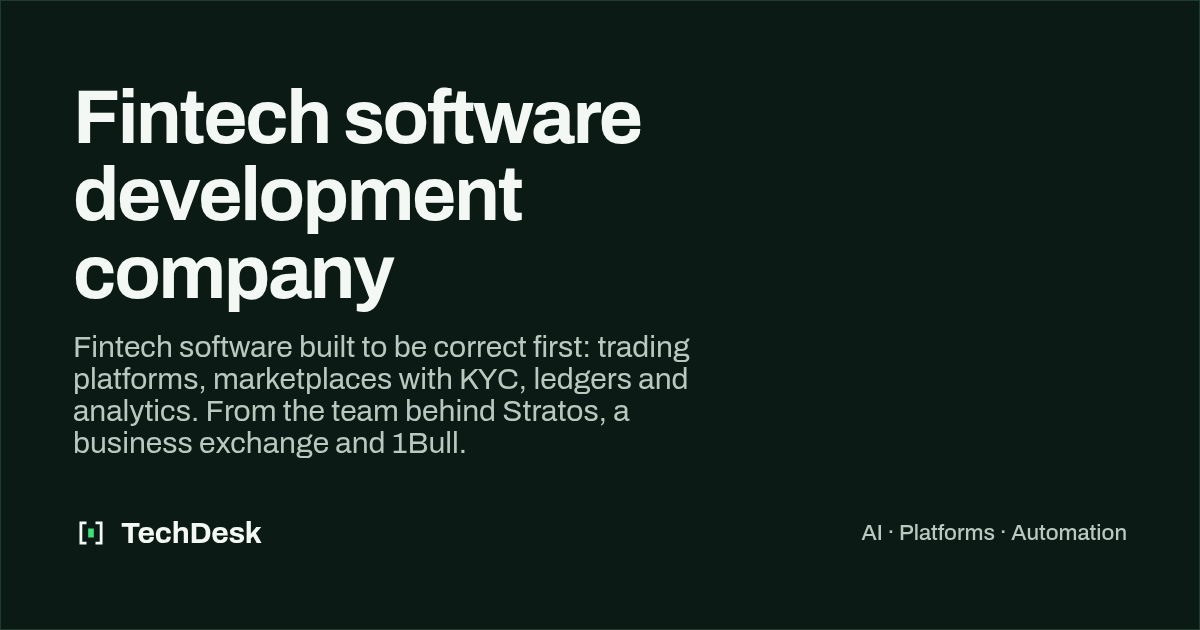
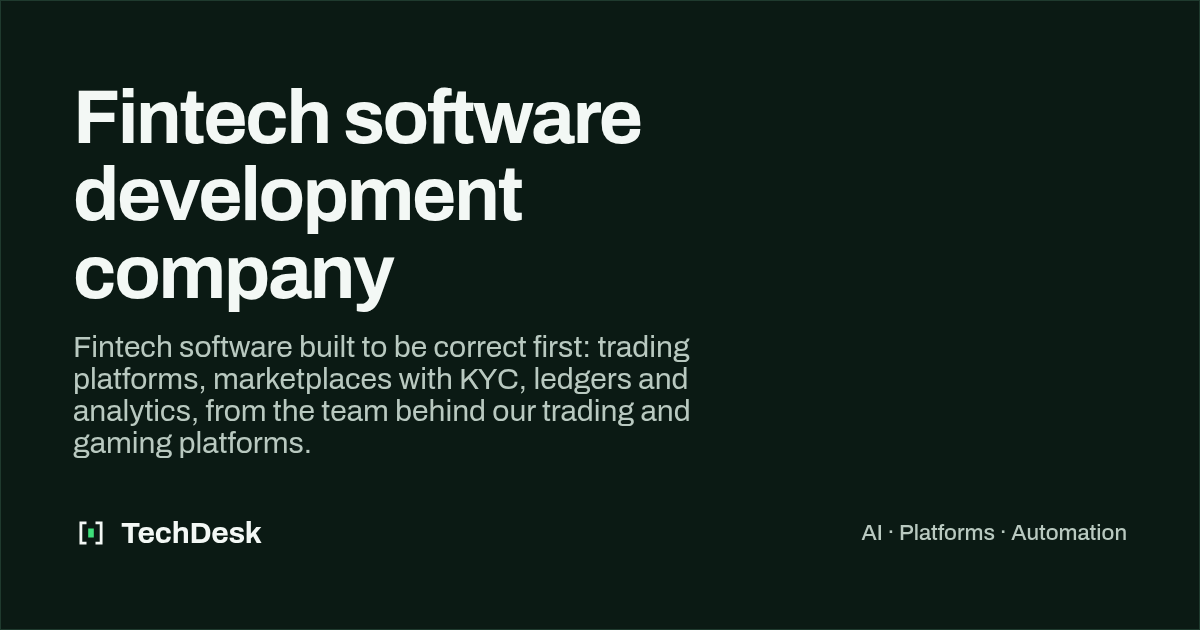
content: remove all client/project brand names and links
Stratos, 1Bull, BidMaster and Digital Ascent are now named by what they are
(Algo Trading Platform, Gaming Platform, E-bidding Automation Extension, Agency Website);
slugs, OG images, copy, tests and chat knowledge updated; no external project links remain.

Claude-Session: https://claude.ai/code/session_019mJ5fpaFVujuJBDkUZyHRG

Changed region(s): [[0.0617, 0.6333, 0.5858, 0.7238]]

diff --git a/src/data/solutions.ts b/src/data/solutions.ts
@@ -61,7 +61,7 @@ export const solutions: Solution[] = [
       {
         title: "Agents that stay up",
         detail:
-          "Our AI layers run a provider chain with timeouts and fallbacks, the same pattern we built for the Stratos trading platform, so one model outage does not take your support line down.",
+          "Our AI layers run a provider chain with timeouts and fallbacks, the same pattern we built for our algo trading platform, so one model outage does not take your support line down.",
       },
       {
         title: "Grounded answers only",
@@ -74,7 +74,7 @@ export const solutions: Solution[] = [
           "A focused WhatsApp agent starts at an indicative ₹75k in India or $2k worldwide. See the estimate tool for your case.",
       },
     ],
-    proof: ["stratos"],
+    proof: ["algo-trading-platform"],
     services: ["ai-automation"],
     estimateType: "ai",
     guide: "ai-agent-development-cost",
@@ -103,11 +103,11 @@ export const solutions: Solution[] = [
     ],
     title: "Algo trading software and platform development",
     description:
-      "Custom algo trading platforms: strategy builders, backtesting, paper trading, broker APIs and AI research. From the team that built the Stratos platform.",
+      "Custom algo trading platforms: strategy builders, backtesting, paper trading, broker APIs and AI research, from a team that runs a live one.",
     h1: "Algo trading software development, from strategy builder to live execution",
     intro: [
       "Trading software has to be right every time: a duplicate order or a missed stop-loss costs real money. We build algorithmic trading platforms and bots with the safety rails designed in from the start.",
-      "We engineered Stratos, a live platform where traders build strategies without code, backtest them, paper trade by default and go live through their own broker. We bring that experience to your platform.",
+      "We engineered a live algo trading platform where traders build strategies without code, backtest them, paper trade by default and go live through their own broker. We bring that experience to your platform.",
     ],
     build: [
       "No-code strategy builders with indicators, opening range and risk settings",
@@ -136,7 +136,7 @@ export const solutions: Solution[] = [
       {
         title: "We have shipped one",
         detail:
-          "Stratos runs strategies for Indian derivatives through Angel One and crypto through Delta Exchange, with AI research on a 5-minute cycle.",
+          "Our algo trading platform runs strategies for Indian derivatives through Angel One and crypto through Delta Exchange, with AI research on a 5-minute cycle.",
       },
       {
         title: "Correctness before features",
@@ -148,7 +148,7 @@ export const solutions: Solution[] = [
           "Paper-first defaults, recorded live consent, audit logs and encrypted broker tokens are part of the design, not an afterthought.",
       },
     ],
-    proof: ["stratos", "financial-analytics"],
+    proof: ["algo-trading-platform", "financial-analytics"],
     services: ["software-engineering", "ai-automation"],
     estimateType: "web-app",
     faq: [
@@ -238,7 +238,7 @@ export const solutions: Solution[] = [
     h1: "Chrome extension development that removes repetitive work from your team's day",
     intro: [
       "Many business processes still live inside a website you do not control: a supplier portal, a government system, a CRM. A browser extension can automate the repetitive parts right where your team already works.",
-      "We built BidMaster, a Manifest V3 extension for vendors on SAP e-bidding portals: the bid is prepared in advance and saved the instant the bidding window opens, with the vendor still confirming.",
+      "We built a Manifest V3 extension for vendors on SAP e-bidding portals: the bid is prepared in advance and saved the instant the bidding window opens, with the vendor still confirming.",
     ],
     build: [
       "Manifest V3 extensions for Chrome and Chromium-based browsers",
@@ -263,7 +263,7 @@ export const solutions: Solution[] = [
     why: [
       {
         title: "Real portal experience",
-        detail: "BidMaster works on live SAP e-bidding portals where seconds matter.",
+        detail: "Our e-bidding extension works on live SAP e-bidding portals where seconds matter.",
       },
       {
         title: "Privacy by design",
@@ -274,7 +274,7 @@ export const solutions: Solution[] = [
         detail: "Automation prepares and speeds up the work; the person still approves the action.",
       },
     ],
-    proof: ["bidmaster"],
+    proof: ["e-bidding-automation"],
     services: ["ai-automation", "digital-transformation"],
     estimateType: "extension",
     faq: [
@@ -302,7 +302,7 @@ export const solutions: Solution[] = [
     h1: "SaaS development from first version to the product customers pay for",
     intro: [
       "A SaaS product has more moving parts than it looks: accounts and roles, subscriptions and billing, admin tools, reporting and an API, all while staying fast and secure. We design and build all of it, and we keep the first version small enough to launch.",
-      "Our own products include Stratos, a subscription trading platform with Starter, Pro and Ultra Pro plans, and a real-time task management SaaS for teams.",
+      "Our own products include a subscription algo trading platform with Starter, Pro and Ultra Pro plans, and a real-time task management SaaS for teams.",
     ],
     build: [
       "Multi-user accounts, roles and permissions",
@@ -324,7 +324,7 @@ export const solutions: Solution[] = [
     why: [
       {
         title: "We run our own SaaS",
-        detail: "Stratos has plans, billing cycles, plan enforcement and an admin console in production.",
+        detail: "Our trading platform has plans, billing cycles, plan enforcement and an admin console in production.",
       },
       {
         title: "Launch small, grow safely",
@@ -335,7 +335,7 @@ export const solutions: Solution[] = [
         detail: "A focused SaaS MVP starts at an indicative ₹1.5L in India or $3k worldwide.",
       },
     ],
-    proof: ["stratos", "task-management-saas", "learning-platform"],
+    proof: ["algo-trading-platform", "task-management-saas", "learning-platform"],
     services: ["web-product-engineering", "software-engineering"],
     estimateType: "web-app",
     guide: "saas-development-cost",
@@ -395,11 +395,10 @@ export const solutions: Solution[] = [
       { title: "Visible progress", detail: "Weekly demos and a repository you own, so nothing happens out of sight." },
       {
         title: "Proven stack",
-        detail:
-          "The same engineers built Stratos, a business exchange platform, BidMaster and the 1Bull platform foundation.",
+        detail: "The same engineers built our algo trading, business exchange, e-bidding and gaming platforms.",
       },
     ],
-    proof: ["stratos", "business-exchange-platform", "1bull"],
+    proof: ["algo-trading-platform", "business-exchange-platform", "gaming-platform"],
     services: ["web-product-engineering", "ai-automation"],
     estimateType: "web-app",
     faq: [
@@ -423,7 +422,7 @@ export const solutions: Solution[] = [
     secondary: ["fintech app development", "trading platform development", "financial software development"],
     title: "Fintech software development company",
     description:
-      "Fintech software built to be correct first: trading platforms, marketplaces with KYC, ledgers and analytics, from the team behind Stratos and 1Bull.",
+      "Fintech software built to be correct first: trading platforms, marketplaces with KYC, ledgers and analytics, from a team with live fintech systems.",
     h1: "Fintech software development where every number has to be right",
     intro: [
       "Financial software is judged on correctness. Money must never be lost to a rounding error, an order must never fire twice, and every sensitive action must leave an audit trail. We build with those rules enforced in code and in the database.",
@@ -447,18 +446,19 @@ export const solutions: Solution[] = [
       {
         title: "Money as integers",
         detail:
-          "In 1Bull, money is bigint minor units with an explicit currency, and floats on money are a lint error.",
+          "In our gaming platform, money is bigint minor units with an explicit currency, and floats on money are a lint error.",
       },
       {
         title: "Trust built in",
-        detail: "Stratos and our business exchange platform ship consent records, audit logs and KYC as core features.",
+        detail:
+          "Our trading and business exchange platforms ship consent records, audit logs and KYC as core features.",
       },
       {
         title: "Compliance-aware engineering",
         detail: "Server-side, deny-by-default rules, never hidden only in the interface.",
       },
     ],
-    proof: ["stratos", "business-exchange-platform", "1bull", "financial-analytics"],
+    proof: ["algo-trading-platform", "business-exchange-platform", "gaming-platform", "financial-analytics"],
     services: ["software-engineering", "web-product-engineering"],
     estimateType: "web-app",
     faq: [
@@ -513,11 +513,12 @@ export const solutions: Solution[] = [
       },
       {
         title: "Work at a global standard",
-        detail: "The same team built platforms such as Stratos and a business exchange platform used beyond Indore.",
+        detail:
+          "The same team built platforms such as an algo trading platform and a business exchange, used beyond Indore.",
       },
       { title: "Clear pricing in rupees", detail: "Indicative INR ranges for every kind of project, before we meet." },
     ],
-    proof: ["stratos", "business-exchange-platform", "bidmaster"],
+    proof: ["algo-trading-platform", "business-exchange-platform", "e-bidding-automation"],
     services: ["web-product-engineering", "ai-automation", "digital-marketing"],
     estimateType: "web-app",
     faq: [

diff --git a/src/data/projects.ts b/src/data/projects.ts
@@ -85,17 +85,16 @@ export const projects: Project[] = [
     },
   },
   {
-    slug: "stratos",
+    slug: "algo-trading-platform",
     metaDescription:
-      "Case study: Stratos, a no-code algo-trading platform with backtesting, paper-first safety, broker integrations and multi-provider AI research. By TechDesk.",
+      "Case study: a no-code algo-trading platform with backtesting, paper-first safety, broker integrations and multi-provider AI research. By TechDesk.",
     code: "02",
-    title: "Stratos",
+    title: "Algo Trading Platform",
     tagline: "Automated strategies, your broker, your control",
     industry: "Fintech · Trading automation",
     industries: ["fintech", "saas"],
     services: ["ai-automation", "web-product-engineering", "software-engineering"],
     status: "Live",
-    url: "https://shailendratradingbot.shop",
     summary:
       "A cloud algorithmic-trading platform: build strategies without code, backtest them, paper trade by default and go live through the trader's own broker, with AI research running alongside.",
     stack: [
@@ -156,11 +155,11 @@ export const projects: Project[] = [
     },
   },
   {
-    slug: "bidmaster",
+    slug: "e-bidding-automation",
     metaDescription:
-      "Case study: BidMaster, a Chrome extension that prepares SAP e-bidding submissions in advance and saves them the instant the window opens. By TechDesk.",
+      "Case study: a Chrome extension that prepares SAP e-bidding submissions in advance and saves them the instant the window opens. By TechDesk.",
     code: "03",
-    title: "BidMaster",
+    title: "E-bidding Automation Extension",
     tagline: "Procurement automation for SAP e-bidding",
     industry: "Enterprise · Procurement",
     industries: ["enterprise"],
@@ -192,11 +191,11 @@ export const projects: Project[] = [
     },
   },
   {
-    slug: "1bull",
+    slug: "gaming-platform",
     metaDescription:
-      "Case study: 1Bull, a multi-brand gaming platform foundation with a double-entry ledger, idempotent payments and deny-by-default compliance. By TechDesk.",
+      "Case study: a multi-brand gaming platform foundation with a double-entry ledger, idempotent payments and deny-by-default compliance. By TechDesk.",
     code: "04",
-    title: "1Bull",
+    title: "Gaming Platform",
     tagline: "Multi-brand gaming platform architecture",
     industry: "Gaming · Platform architecture",
     industries: ["gaming", "fintech"],
@@ -242,9 +241,9 @@ export const projects: Project[] = [
     },
   },
   {
-    slug: "digital-ascent",
+    slug: "agency-website",
     code: "05",
-    title: "Digital Ascent",
+    title: "Agency Website",
     tagline: "Agency website with AI chatbot and quote calculator",
     industry: "Professional services",
     industries: ["saas"],

diff --git a/src/data/industries.ts b/src/data/industries.ts
@@ -18,7 +18,7 @@ export const industries: Industry[] = [
     name: "Fintech",
     example: "Trading automation with paper-first safety, broker integrations and an AI research layer.",
     services: ["ai-automation", "software-engineering"],
-    project: "stratos",
+    project: "algo-trading-platform",
   },
   {
     key: "marketplaces",
@@ -33,7 +33,7 @@ export const industries: Industry[] = [
     name: "Enterprise & procurement",
     example: "Browser automation that prepares vendor bids ahead of time and saves them the instant the window opens.",
     services: ["ai-automation", "digital-transformation"],
-    project: "bidmaster",
+    project: "e-bidding-automation",
   },
   {
     key: "gaming",
@@ -41,7 +41,7 @@ export const industries: Industry[] = [
     example:
       "A multi-brand platform foundation with a double-entry ledger, idempotent money movement and deny-by-default compliance.",
     services: ["software-engineering"],
-    project: "1bull",
+    project: "gaming-platform",
   },
   {
     key: "ecommerce",

diff --git a/tests/e2e/flows.spec.ts b/tests/e2e/flows.spec.ts
@@ -12,8 +12,8 @@ test("navigate from home to a case study and back to work", async ({ page, isMob
     await page.getByRole("navigation", { name: "Primary" }).getByRole("link", { name: "Work" }).click();
   }
   await expect(page).toHaveURL(/\/work$/);
-  await page.getByRole("link", { name: "Stratos", exact: true }).click();
-  await expect(page.getByRole("heading", { level: 1 })).toHaveText(/stratos/i);
+  await page.getByRole("link", { name: "Algo Trading Platform", exact: true }).click();
+  await expect(page.getByRole("heading", { level: 1 })).toHaveText(/algo trading platform/i);
   await expect(page.getByText("System architecture")).toBeVisible();
 });
 

diff --git a/src/styles/tokens.css b/src/styles/tokens.css
@@ -53,7 +53,7 @@
   --text-label--letter-spacing: 0.01em;
 
   /* ── Radius ── */
-  --radius-sm: 8px; /* rounded like digital-ascent */
+  --radius-sm: 8px; /* soft rounded corners */
   --radius-md: 12px;
   --radius-lg: 16px;
 
@@ -71,7 +71,7 @@
 
 :root {
   /* Layout */
-  --container: 96rem; /* content width 1536px (Tailwind 2xl), matching the owner's Stratos site; padding sits outside */
+  --container: 96rem; /* content width 1536px (Tailwind 2xl), matching the owner's reference site; padding sits outside */
   --gutter: clamp(1rem, 0.5rem + 2.5vw, 3rem);
   --section-y: clamp(4rem, 2.5rem + 4.5vw, 7rem);
   --dock-h: 4rem;

diff --git a/src/routes/work.$slug.tsx b/src/routes/work.$slug.tsx
@@ -15,7 +15,7 @@ export const meta = ({ params }: Route.MetaArgs) => {
   if (!p?.caseStudy)
     return seo({ title: "Project not found | TechDesk", description: "", path: "/404", noindex: true });
   return seo({
-    title: `${p.title} case study: ${p.industry.split(" · ")[0]} | TechDesk`,
+    title: `${p.title} case study | TechDesk`,
     description: p.metaDescription ?? p.summary,
     imageAlt: `${p.title} case study by TechDesk`,
     breadcrumbs: [

diff --git a/src/lib/seo.ts b/src/lib/seo.ts
@@ -17,7 +17,7 @@ type Seo = {
   type?: "website" | "article";
   /** schema.org nodes for this page (emitted as one @graph together with the site-wide nodes). */
   jsonLd?: Ld | Ld[];
-  /** Breadcrumb trail after "Home", e.g. [["Work", "/work"], ["Stratos", "/work/stratos"]]. */
+  /** Breadcrumb trail after "Home", e.g. [["Work", "/work"], ["Project", "/work/project"]]. */
   breadcrumbs?: [string, string][];
 };
 

diff --git a/src/data/company.ts b/src/data/company.ts
@@ -53,7 +53,7 @@ export const strengths = [
   {
     title: "Products that handle money and trust",
     detail:
-      "Ledgers, KYC, consent and audit logs, built to be correct first (Stratos, a business exchange platform, 1Bull).",
+      "Ledgers, KYC, consent and audit logs, built to be correct first (our trading, business exchange and gaming platforms).",
   },
   {
     title: "AI that stays up",

diff --git a/amplify/functions/chat/providers.ts b/amplify/functions/chat/providers.ts
@@ -1,4 +1,4 @@
-// Provider chain for the chat assistant. Pattern adapted from the owner's Stratos LLM layer
+// Provider chain for the chat assistant. Pattern adapted from the owner's trading-platform LLM layer
 // (env-driven provider:model pairs, per-attempt timeout, overall deadline, classified failures,
 // per-provider cooldown, secret redaction), rewritten small and fetch-only.
 

diff --git a/src/sections/home/Hero.tsx b/src/sections/home/Hero.tsx
@@ -8,7 +8,7 @@ const PHRASES = ["AI agents", "SaaS platforms", "trading systems", "marketplaces
 // Floating "live system" cards: every line is a real project fact from projects.ts.
 const SIGNALS = [
   {
-    label: "Stratos",
+    label: "Trading platform",
     status: "Live",
     detail: "Paper-first trading automation",
     pos: "top-[6%] left-[2%]",

diff --git a/tests/e2e/site.spec.ts b/tests/e2e/site.spec.ts
@@ -4,7 +4,7 @@ import { expect, test } from "./fixtures";
 const routes = [
   "/",
   "/work",
-  "/work/stratos",
+  "/work/algo-trading-platform",
   "/services",
   "/services/ai-automation",
   "/solutions",

diff --git a/CLAUDE.md b/CLAUDE.md
@@ -33,7 +33,7 @@ WhatsApp/call **+91 92033 87375** · **shailendramishra0127@gmail.com** · **Ind
 - Old portfolio testimonials ("Sarah Chen" etc.) and stats ("50+ projects", "30+ clients", "99.9%") are **template content — excluded** unless the owner confirms them.
 - Missing content → flag it in data (e.g. `visualsPending: true`): a `[CONTENT NEEDED]` note renders in dev builds only and the section is omitted in production. `tests/unit/data.test.ts` fails on known template filler.
 - BidMaster: describe as procurement automation; do not market CAPTCHA reading.
-- Biexor: **never name it or link to it** on the site (owner, 2026-09-25). Call it "Business Exchange Platform" / "a business exchange platform"; slug `business-exchange-platform`.
+- **No client or project brand names, and no links to them, anywhere on the site** (owner, 2026-09-25). Name projects by what they are: Business Exchange Platform, Algo Trading Platform, E-bidding Automation Extension, Gaming Platform, Agency Website.
 
 ## Working rules
 - Work in phases (spec §57). Phases 0–12 completed 2026-09-24 (see docs/CHANGELOG.md); deploy steps in docs/DEPLOYMENT.md need the owner.
